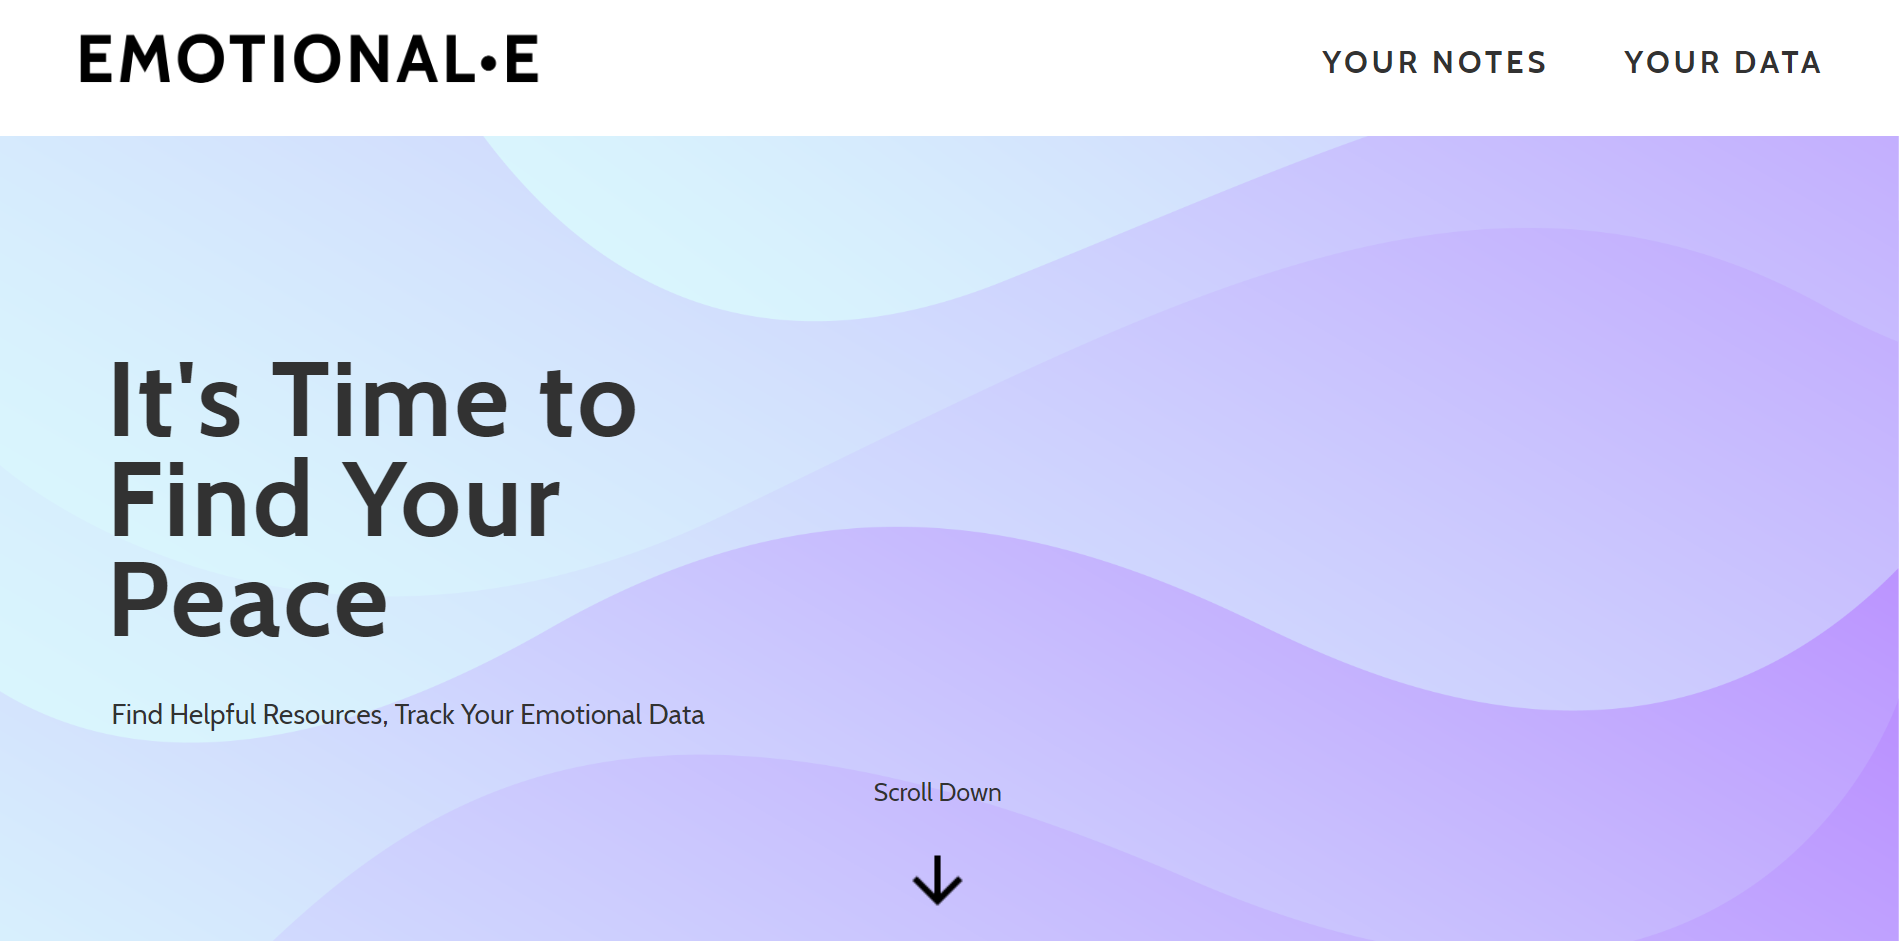
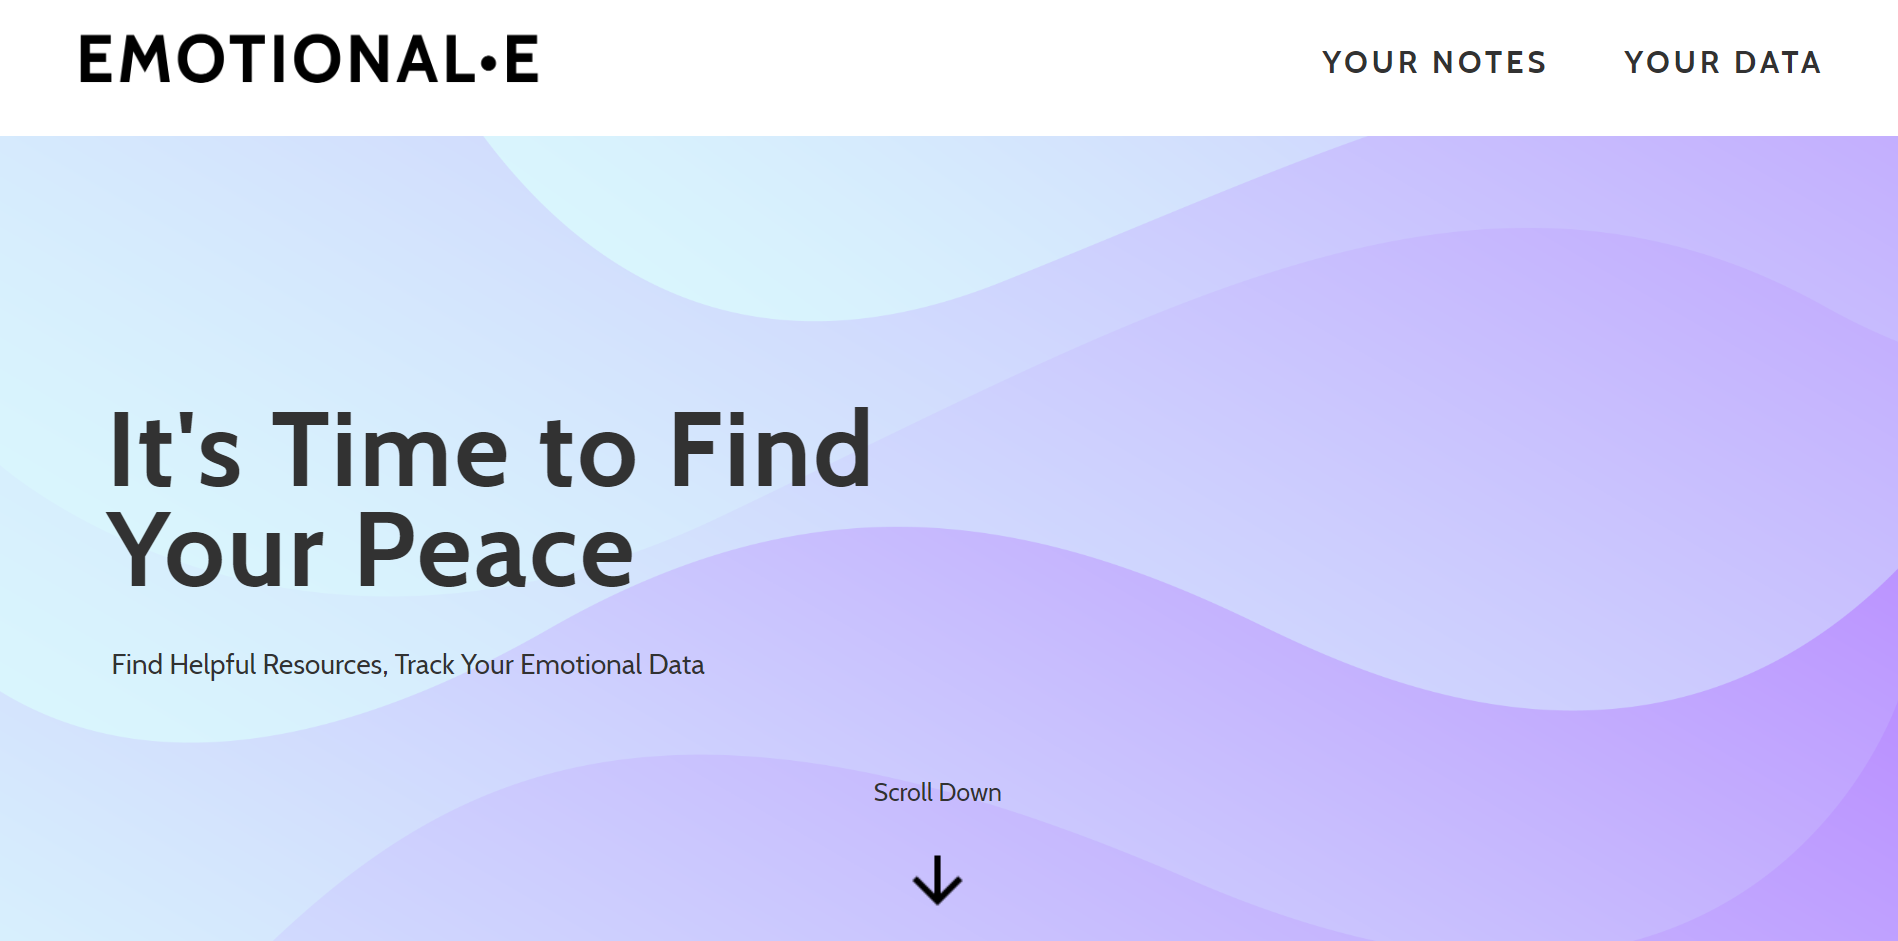
add demo links, fix nav bar, adjust text

diff --git a/src/Portfolio/Portfolio.js b/src/Portfolio/Portfolio.js
@@ -1,6 +1,5 @@
 import React, {useEffect, useRef} from 'react';
 import './Portfolio.scss';
-import port from './PortfolioAssets/port.jpg';
 import viewflix from './PortfolioAssets/viewflix.PNG';
 import bandsite from './PortfolioAssets/bandsite.PNG';
 import emotionalE from './PortfolioAssets/emotional-e.PNG';
@@ -92,12 +91,12 @@ const Portfolio = () => {
                         <div className="portfolio__text-ctn">
                         <h3 className="portfolio__project-title-2">Emotional-E</h3>
                             <p className="portfolio__text">An app that provides resources served up from a Node server to help users deal with negative emotional states.<br/>
-                                With each click of the resources user click data is sent to the back end and re-served via a chart to help users keep track of how they're emotional data. Users
-                                are also able to add notes via a modal component added to each page and keep journal notes of how they're feeling on a dailly basis.
+                                With each click of the resources, user click data is sent to the back end and re-served via a chart to help users keep track of they're emotional data. Users
+                                are also able to add notes via a modal component added to each page and keep journal notes of how they're feeling on a daily basis.
                             </p>
                             <div className="portfolio__link-ctn">
-                                <a href="https://github.com/ramsers/emotional-e" target="_blank" className="portfolio__link">View On Github</a>
-                                <a href="#" className="portfolio__link">Watch Demo Video</a>
+                                <a href="https://github.com/ramsers/emotional-e" rel="noopener noreferrer" target="_blank" className="portfolio__link">View On Github</a>
+                                <a href="https://www.loom.com/share/28ac8f5bf05249c0ad95390668b2fc93" rel="noopener noreferrer" target="_blank" className="portfolio__link">Watch Demo Video</a>
                             </div>
                         </div>
                     </div>
@@ -120,12 +119,12 @@ const Portfolio = () => {
                     <div ref={el => {projectHalf4 = el}} className="portfolio__highlight">
                         <div className="portfolio__text-ctn">
                         <h3 className="portfolio__project-title-2">ViewFlix</h3>
-                            <p className="portfolio__text">A video streaming site where users are able to click on suggested videos in the side bar and have them <br/>
-                                take the place of the main video. Users are able to comment on videos, as well as add to the side videos on the upload page. The video API data is stored via JSON file on the back-end and served up via the Node server.
+                            <p className="portfolio__text">A video streaming site where users are able to click on suggested videos generated from the API stored in the back end and have them
+                                take the place of the main video using React-Router. The video API data is served up via the Node server. Users are also able to add videos on the upload page.
                             </p>
                             <div className="portfolio__link-ctn">
-                                <a href="https://github.com/ramsers/raheim-bailey-brainflix/tree/master/sprint-3" target="_blank" className="portfolio__link">View On Github</a>
-                                <a href="#" className="portfolio__link">Watch Demo Video</a>
+                                <a href="https://github.com/ramsers/raheim-bailey-viewflix/tree/master/sprint-3" rel="noopener noreferrer" target="_blank" className="portfolio__link">View On Github</a>
+                                <a href="https://www.loom.com/share/550bf92e5126481a8467bb96f5e4488f" rel="noopener noreferrer" target="_blank" className="portfolio__link">Watch Demo Video</a>
                             </div>
                         </div>
                     </div>
@@ -147,13 +146,13 @@ const Portfolio = () => {
                     <div ref={el => {projectHalf6 = el}} className="portfolio__highlight">
                         <div className="portfolio__text-ctn">
                         <h3 className="portfolio__project-title-2">Justice Band Site</h3>
-                            <p className="portfolio__text">A mock website for the famed music Duo JUSTICE.<br/>  
-                                This was an exercise using vanilla JavaScript to connect with an API and creating DOM elements from that API data and displaying it on the page.
-                                There is a Dynamic aspect where users and fans are able to input their comments which are then posted to the API and then reappear in the list of comments on the homepage.
+                            <p className="portfolio__text">A fully responsive mock website for the famed music Duo JUSTICE. 
+                                This was an exercise in using vanilla JavaScript to connect with an API and creating DOM elements from that API data and displaying it on the page.
+                                There is a Dynamic aspect where users and fans are able to input their comments which are posted to the API and reappear in the list of comments on the homepage.
                             </p>
                             <div className="portfolio__link-ctn">
-                                <a href="https://github.com/ramsers/raheim-bailey-bandsite/tree/master/sprint-3" target="_blank" className="portfolio__link">View On Github</a>
-                                <a href="#" className="portfolio__link">Watch Demo Video</a>
+                                <a href="https://github.com/ramsers/raheim-bailey-bandsite/tree/master/sprint-3" rel="noopener noreferrer" target="_blank" className="portfolio__link">View On Github</a>
+                                <a href="https://www.loom.com/share/fc2a311fc7fc4545994127b88e588449" target="_blank" rel="noopener noreferrer" className="portfolio__link">Watch Demo Video</a>
                             </div>
                         </div>
                     </div>

diff --git a/src/Nav/Nav.js b/src/Nav/Nav.js
@@ -23,15 +23,15 @@ class Nav extends React.Component {
                 <div className="site-nav__logo">Raheim Bailey</div>
                 <div className="site-nav__ctn">
                     <BrowserRouter>
-                        <NavLink  className="site-nav__link" to='/#projects'>
+                        <NavLink className="site-nav__link" smooth to='/#projects'>
                             Projects
                         </NavLink>
     
-                        <NavLink  className="site-nav__link" className="site-nav__link" to='/#about'>
+                        <NavLink className="site-nav__link" className="site-nav__link" smooth to='/#about'>
                             About
                         </NavLink>
     
-                        <NavLink  className="site-nav__link" to='/#contact'>
+                        <NavLink className="site-nav__link" smooth to='/#contact'>
                             Contact
                         </NavLink>
                     </BrowserRouter>

diff --git a/src/Nav/Nav.scss b/src/Nav/Nav.scss
@@ -7,16 +7,27 @@
     width: 100vw;
     padding: $rem-16 $rem-16 0 $rem-16;
     margin-bottom: $rem-32;
+    position: fixed;
+    top: 0;
+    z-index: 5;
     @include tablet {
         padding: $rem-24 $rem-32 $rem-32 $rem-32;
     }
     @include desktop-small {
-        padding: $rem-24 $rem-48 0 $rem-48;
+        padding: $rem-24 $rem-48 .1rem $rem-48;
         margin-bottom: $rem-32;
+        position: fixed;
+        top: 0;
+        z-index: 5;
+        background-color:rgba(14, 20, 20, .5);
     }
     @include desktop {
-        padding: $rem-24 $rem-64 0 $rem-48;
+        padding: $rem-24 $rem-64 .1rem $rem-48;
         margin-bottom: $rem-32;
+        position: fixed;
+        top: 0;
+        z-index: 5;
+        background-color:rgba(14, 20, 20, .7);
     }
     &__logo {
         font-family: 'Cantarell', sans-serif;
@@ -64,5 +75,9 @@
             font-size: $rem-18;
         }
     }  
+}
+
+.selected {
+    border-bottom: 2px solid red;
 }
 

diff --git a/src/Contact/Contact.js b/src/Contact/Contact.js
@@ -8,7 +8,7 @@ import {BrowserRouter} from 'react-router-dom';
 
 const Contact = () => {
     return(
-        <section className="contact">
+        <section id ='contact' className="contact">
             <div className="contact__ctn">
                 <div className="contact__social-ctn footer-ctn">
                     <div className="contact__social-head">

diff --git a/src/Contact/Contact.scss b/src/Contact/Contact.scss
@@ -105,9 +105,11 @@
         margin-right: -5.5rem;
     }
     @include desktop-small {
-        margin-right: -10rem;
+        // margin-right: -10rem;
+        margin: 13px 0rem 13px 6.5rem;
     }
     @include desktop {
-        margin-right: -13.5rem;
+        // margin-right: -13.5rem;
+        margin: 13px 0rem 13px 6.5rem;
     }
 }

diff --git a/src/Hero/Hero.scss b/src/Hero/Hero.scss
@@ -20,9 +20,11 @@
         @include flex(row, center, "");
         @include desktop-small {
             height:85%;
+            padding-top: 8rem;
         }
         @include desktop {
             height: 82%;
+            padding-top: 8rem;
         }
     }
     &__content-ctn {
